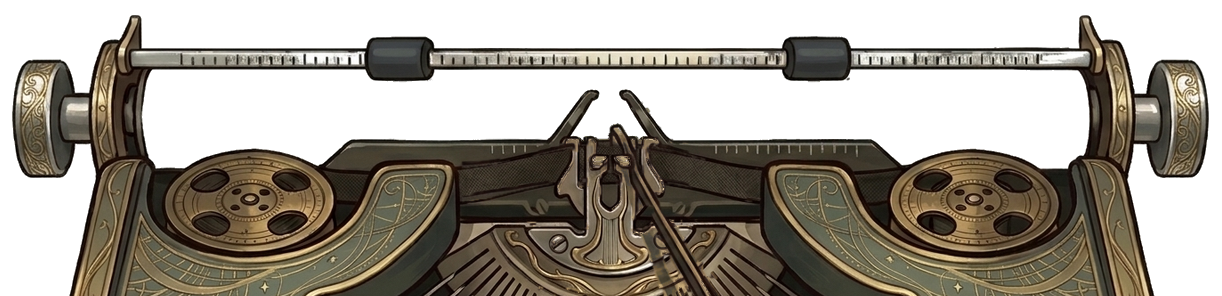
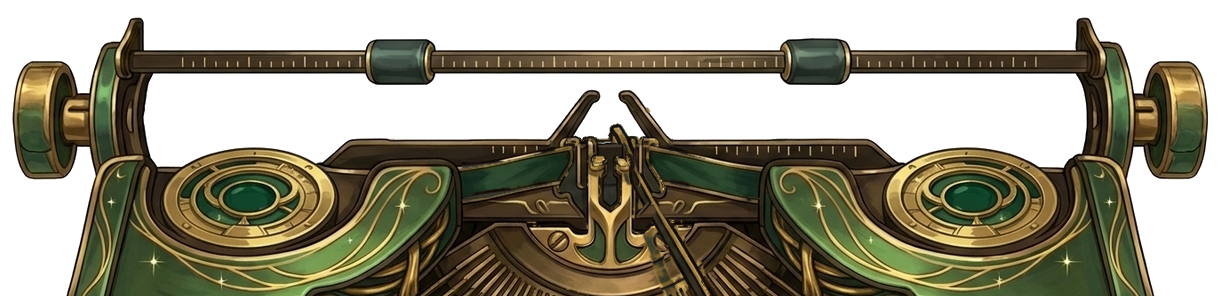
art(superfoco): nova máquina de escrever AFK Journey x Eternos redesenhada do zero (placas verde-musgo, dutos dourados 3D e contornos oscilantes)

diff --git a/service-worker.js b/service-worker.js
@@ -1,6 +1,6 @@
 /* Gerado: editar src/app/service-worker.template.js. */
-const CACHE_NAME = "scrvrl-offline-v6-65-b4e28700f32c";
-const RUNTIME_CACHE = "scrvrl-runtime-b4e28700f32c";
+const CACHE_NAME = "scrvrl-offline-v6-65-f0a460c56db0";
+const RUNTIME_CACHE = "scrvrl-runtime-f0a460c56db0";
 const ASSET_VERSION = "20261014-scrvrl-exame-v6-65";
 const REQUIRED_ASSETS = [
   {
